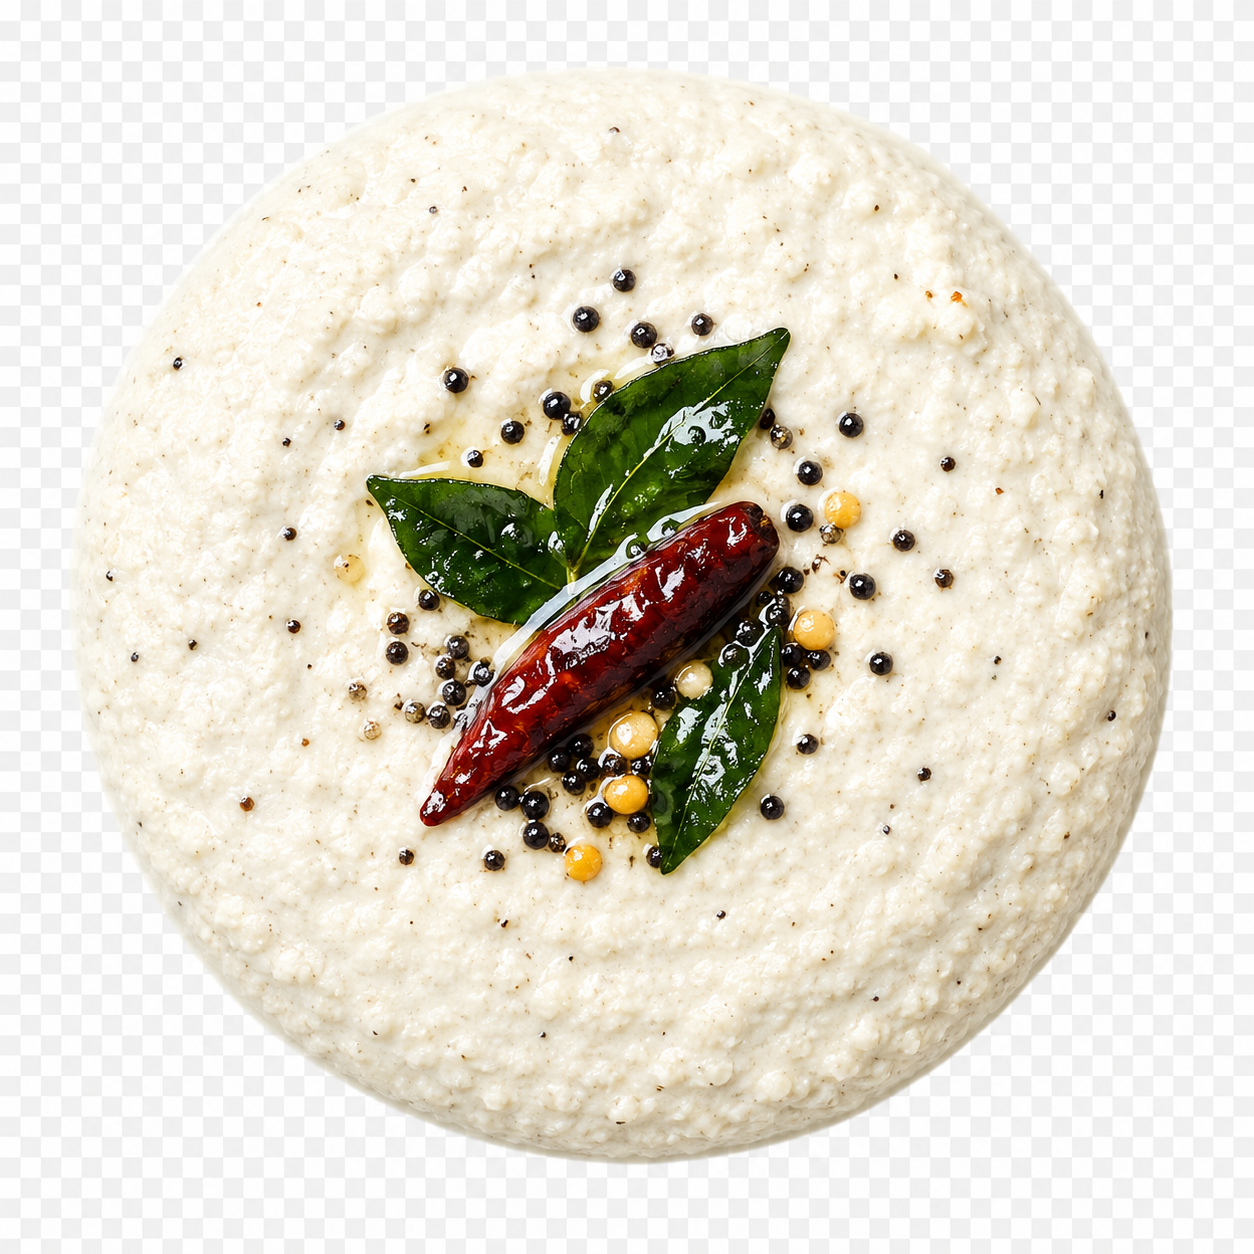
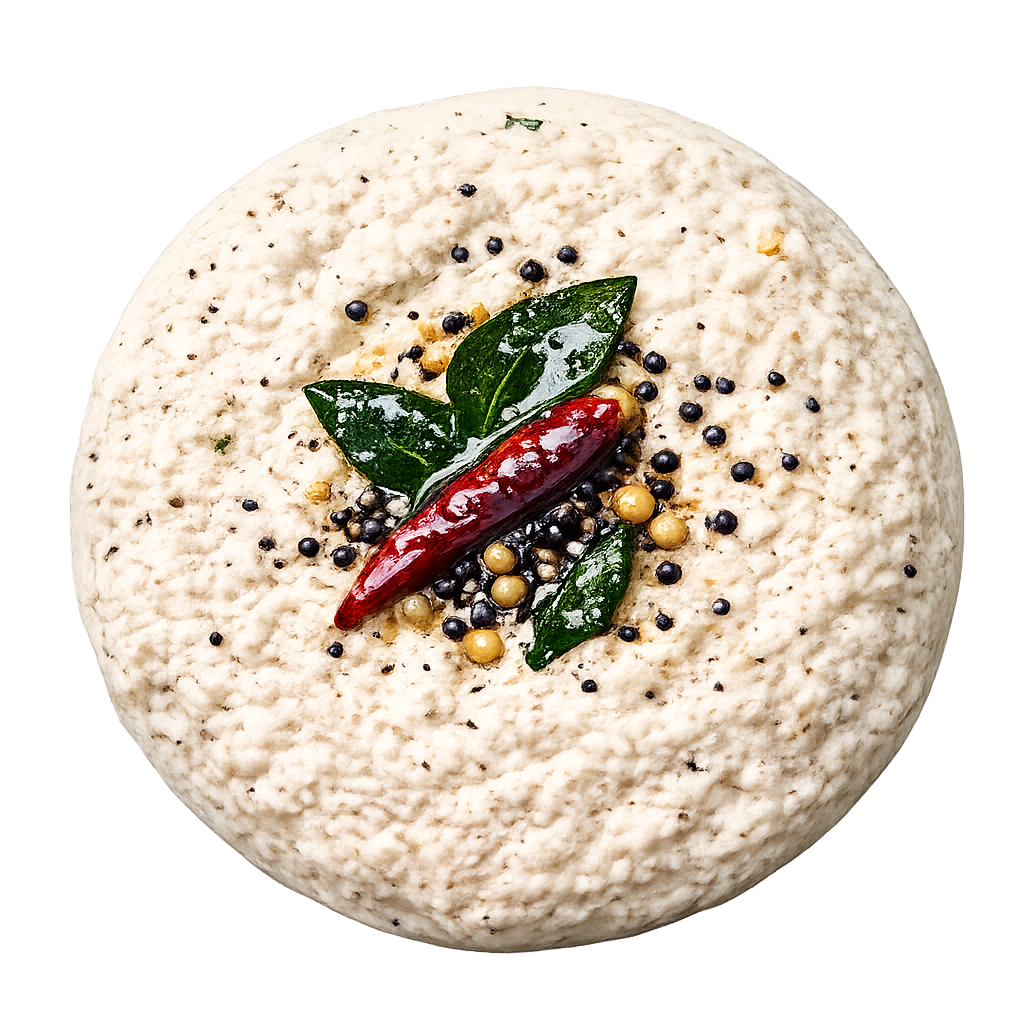
i dont want two icrcles the one above the dosa thre is a circle with som

diff --git a/src/components/ScrollStory.tsx b/src/components/ScrollStory.tsx
@@ -13,15 +13,12 @@ export function ScrollStory() {
   const containerRef = useRef<HTMLDivElement>(null);
   const pinWrapperRef = useRef<HTMLDivElement>(null); 
   const dosaRef = useRef<HTMLDivElement>(null);
-  const chutneyRef = useRef<HTMLDivElement>(null);
-  const potatoRef = useRef<HTMLDivElement>(null);
+  const chutneyAccentRef = useRef<HTMLDivElement>(null);
   const sectionsRef = useRef<(HTMLDivElement | null)[]>([]);
   
   const images = {
     dosa: PlaceHolderImages.find(i => i.id === 'hero-dosa'),
-    potato: PlaceHolderImages.find(i => i.id === 'potato-filling'),
     chutney: PlaceHolderImages.find(i => i.id === 'chutney-side'),
-    sambar: PlaceHolderImages.find(i => i.id === 'sambar-side'),
   };
 
   useLayoutEffect(() => {
@@ -62,26 +59,13 @@ export function ScrollStory() {
           }
         });
 
-        // Floating Accents Animations
-        gsap.fromTo(potatoRef.current, 
-          { x: 100, opacity: 0 },
+        // Chutney Accent Animation
+        gsap.fromTo(chutneyAccentRef.current, 
+          { x: 100, opacity: 0, rotate: 45 },
           { 
             x: 0, 
             opacity: 1, 
-            scrollTrigger: {
-              trigger: sectionsRef.current[2],
-              start: "top 80%",
-              end: "top 40%",
-              scrub: true
-            }
-          }
-        );
-
-        gsap.fromTo(chutneyRef.current, 
-          { x: -100, opacity: 0 },
-          { 
-            x: 0, 
-            opacity: 1, 
+            rotate: 0,
             scrollTrigger: {
               trigger: sectionsRef.current[3],
               start: "top 80%",
@@ -161,31 +145,14 @@ export function ScrollStory() {
                 fill 
                 className="object-contain"
                 priority
-                data-ai-hint="folded masala dosa top"
               />
             )}
           </div>
           
-          {/* Floating Accents - Spices/Potato */}
+          {/* Chutney Accent Circle with Brown Border */}
           <div 
-            ref={potatoRef}
-            className="absolute -top-10 -right-10 w-24 h-24 md:w-32 md:h-32 rounded-full overflow-hidden shadow-2xl opacity-80"
-          >
-            {images.potato && (
-              <Image 
-                src={images.potato.imageUrl} 
-                alt="Spices" 
-                fill 
-                className="object-cover"
-                data-ai-hint="indian spices" 
-              />
-            )}
-          </div>
-
-          {/* Chutney Accent - WITH BROWN BORDER */}
-          <div 
-            ref={chutneyRef}
-            className="absolute -bottom-10 -left-10 w-24 h-24 md:w-32 md:h-32 rounded-full overflow-hidden shadow-2xl opacity-100 border-4 border-[#3E2723]"
+            ref={chutneyAccentRef}
+            className="absolute -top-12 -right-8 w-28 h-28 md:w-40 md:h-40 rounded-full overflow-hidden shadow-2xl border-[6px] border-[#3E2723] z-30"
           >
             {images.chutney && (
               <Image 
@@ -193,7 +160,6 @@ export function ScrollStory() {
                 alt="Coconut Chutney" 
                 fill 
                 className="object-cover"
-                data-ai-hint="coconut chutney bowl" 
               />
             )}
           </div>
